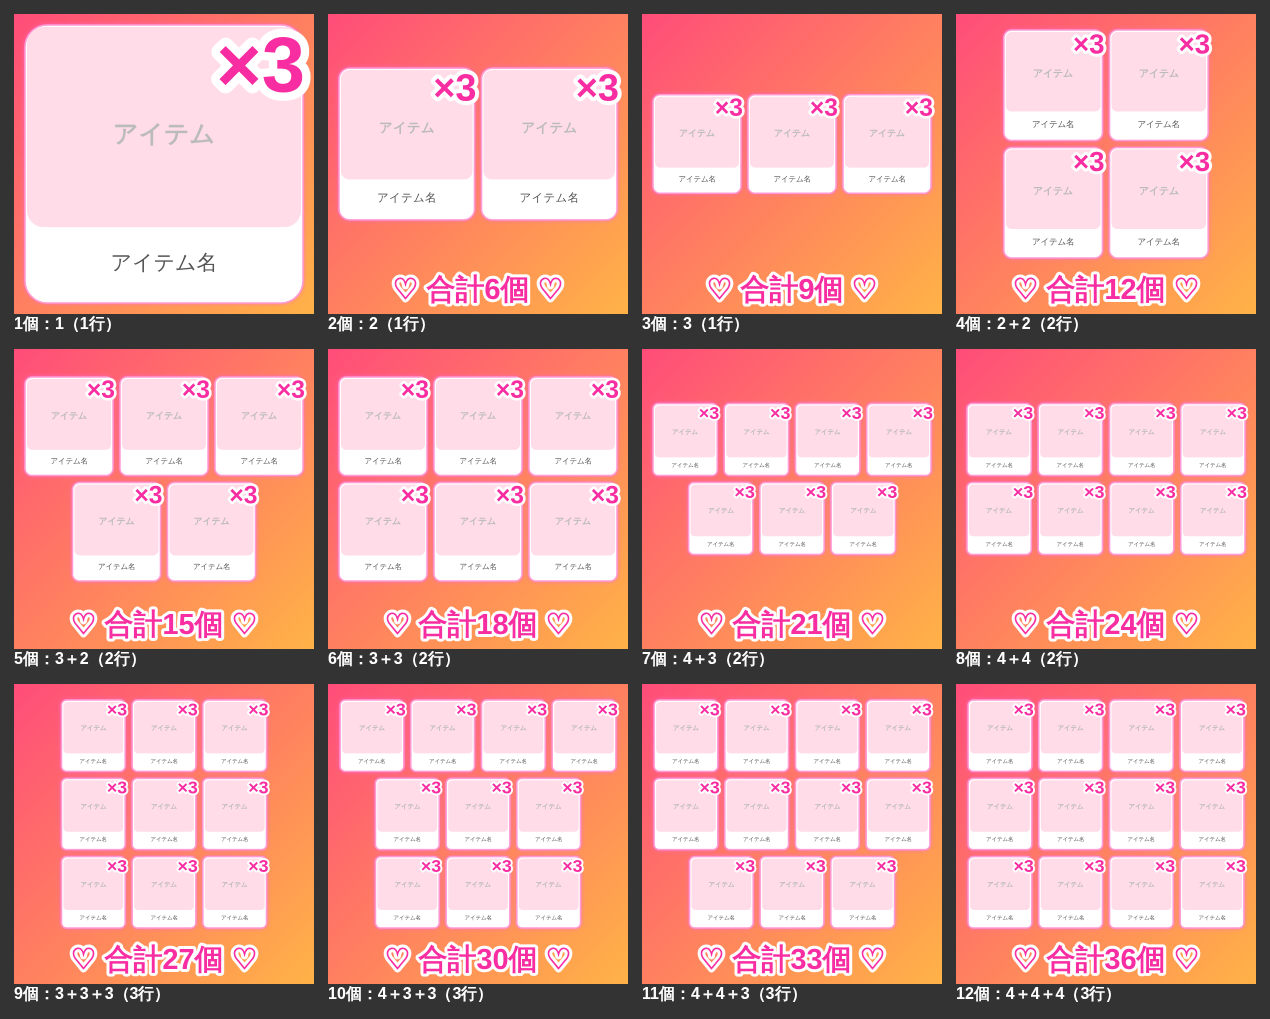
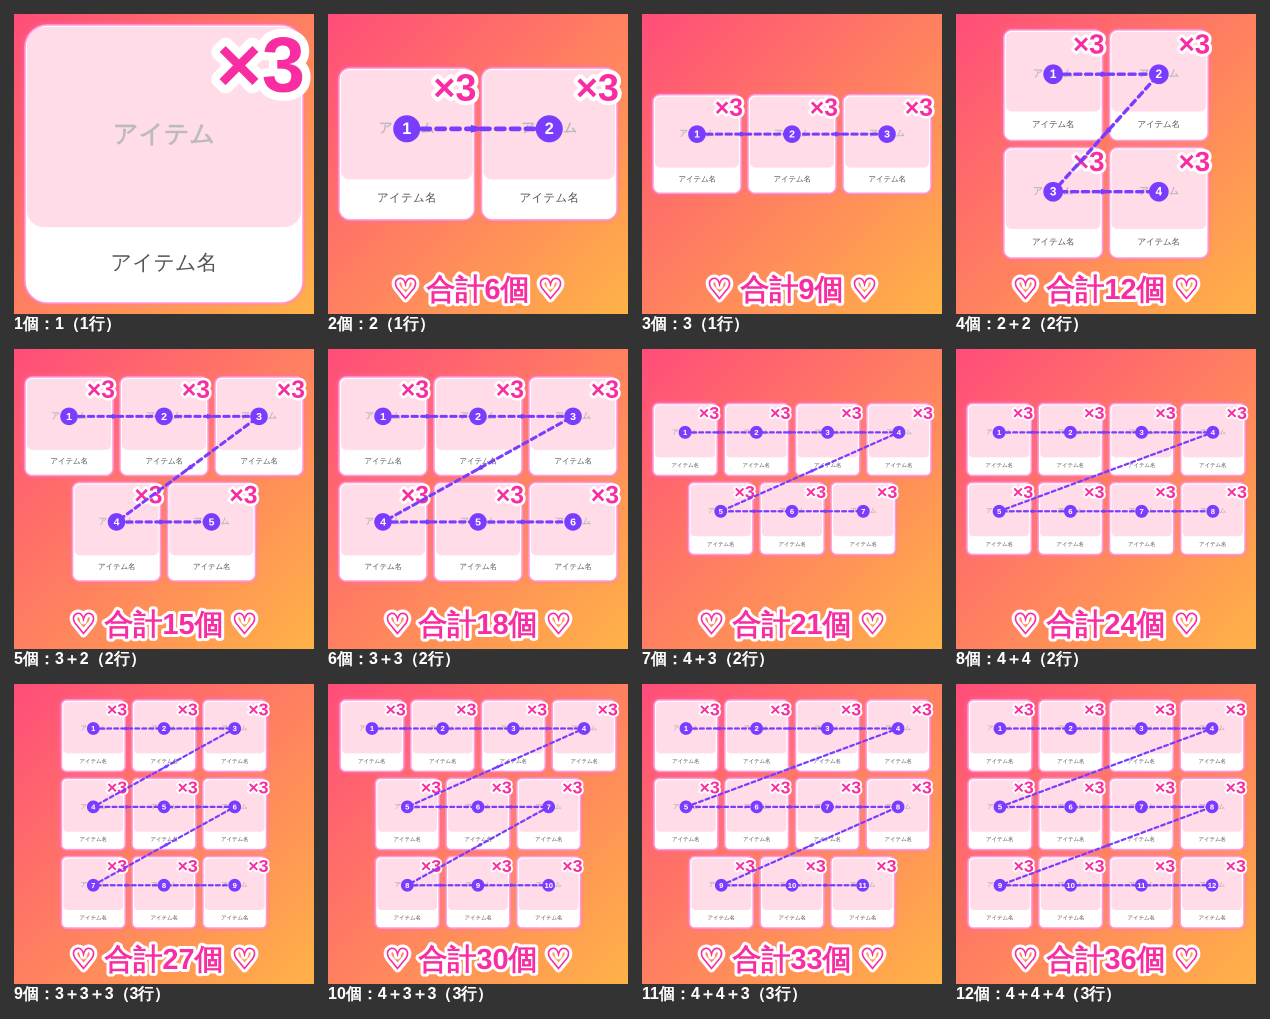
複数アイテム（2〜12個）に対応：写真を複数選択→選んだ順に左上から並べ、各×数と合計○個を表示。レイアウト図に並び順の矢印
Claude-Session: https://claude.ai/code/session_01NKVa1W4QoGNW4YStBspzk8

diff --git a/index.html b/index.html
@@ -131,6 +131,15 @@
     background:#5a3a6aee;color:#fff;font-weight:800;font-size:13px;padding:10px 16px;border-radius:99px;opacity:0;transition:.25s;pointer-events:none;text-align:center}
   #toast.show{opacity:1;transform:translate(-50%,0)}
   .set.shared::before{content:"☁";position:absolute;left:-5px;bottom:-6px;font-size:12px;background:#fff;border-radius:50%;width:18px;height:18px;line-height:18px;text-align:center;box-shadow:0 0 3px #0003}
+
+  /* 複数アイテム */
+  #multi{display:flex;gap:6px;overflow-x:auto;padding:2px 0 4px}
+  body.isMulti .nums{display:none}
+  .chip{flex:none;display:flex;align-items:center;gap:4px;background:#fff;border-radius:99px;padding:3px 6px 3px 3px;box-shadow:0 2px 0 #f6cfe2}
+  .chip .no{width:18px;height:18px;border-radius:50%;background:var(--pink);color:#fff;font-size:11px;font-weight:900;line-height:18px;text-align:center}
+  .chip img{width:30px;height:30px;object-fit:cover;object-position:50% 30%;border-radius:8px}
+  .chip b{min-width:30px;text-align:center;color:#f82da1;font-weight:900}
+  .chip button{width:28px;height:28px;border-radius:50%;border:0;color:#fff;font-weight:900;font-size:16px;background:linear-gradient(180deg,#ff9fcb,var(--pink));box-shadow:0 2px 0 #e0579a}
 </style>
 </head>
 <body>
@@ -142,13 +151,14 @@
 <div id="sets"></div><input type="file" id="bg" accept="image/*" hidden>
 
 <div class="ctrl">
-  <label class="pill lav pick">📷 アイテム画像を選ぶ<input type="file" id="shot" accept="image/*" hidden></label>
+  <label class="pill lav pick">📷 アイテム画像を選ぶ<input type="file" id="shot" accept="image/*" multiple hidden></label>
   <div class="nums">
     <label class="own">所持数<small id="ownState"></small><input type="number" id="owned" min="1" inputmode="numeric" placeholder="−"></label>
     <div class="step"><button type="button" id="minus" aria-label="1減らす">−</button>
       <span>×<b id="countView">3</b></span><button type="button" id="plus" aria-label="1増やす">＋</button></div>
     <input type="hidden" id="count">
   </div>
+  <div id="multi"></div>
 </div>
 </main>
 
@@ -177,9 +187,9 @@
     <div class="row" id="delList"></div>
   </div></section>
 
-  <section class="card"><h2>複数アイテムのレイアウト（準備中）</h2><div class="in">
+  <section class="card"><h2>複数アイテムの並び順</h2><div class="in">
     <img src="img/layouts.png" alt="1〜12個の並べ方の案" style="width:100%;border-radius:14px">
-    <div class="note">2・3個は横並び、4個は2＋2、5個は3＋2、6個は3＋3、7個は4＋3、8個は4＋4、9個は3＋3＋3、10個は4＋3＋3、11個は4＋4＋3、12個は4＋4＋4。下に入れる「合計○個」の数字は大きく使います。</div>
+    <div class="note">写真を選んだ順に、左上から番号の順で並びます。2・3個は横並び、4個は2＋2、5個は3＋2、6個は3＋3、7個は4＋3、8個は4＋4、9個は3＋3＋3、10個は4＋3＋3、11個は4＋4＋3、12個は4＋4＋4。下に入れる「合計○個」の数字は大きく使います。</div>
   </div></section>
 
   <section class="card"><h2>切り抜き位置</h2><div class="in">
@@ -236,35 +246,68 @@ $('showCount').addEventListener('change',draw);
 
 function fromFile(f, cb){ const i=new Image(); i.onload=()=>{cb(i);draw();}; i.src=URL.createObjectURL(f); }
 // ---- アイテム画像：読み込み時に「所持数：○個」を文字認識して所持数に入れる（画像自体は一切変更しない） ----
-function setShot(i){ shotImg=i; $('count').value=''; readOwned(i); }
+// 画像から「所持数」の行を探し、所持数・切り抜き位置を返す（画像そのものは変更しない）
 let ocrWorker=null, ocrSeq=0;
+async function analyzeShot(img){
+  if (!window.Tesseract) return null;
+  // 画面の下側（スクショ幅の60%より下・左右20〜80%）を読み取り用にコピーして「所持数」の行を探す
+  const W=img.width, sx=W*.2, sy=W*.6, sw=W*.6, sh=img.height-sy;
+  if (sh<=0) return null;
+  const c=document.createElement('canvas'), k=Math.max(1,900/sw); c.width=sw*k; c.height=sh*k;
+  c.getContext('2d').drawImage(img,sx,sy,sw,sh,0,0,c.width,c.height);
+  const base=new URL('ocr/',location.href).href;
+  ocrWorker ??= await Tesseract.createWorker('jpn',1,{workerPath:base+'worker.min.js',corePath:base,langPath:base,workerBlobURL:false});
+  const {data}=await ocrWorker.recognize(c,{},{text:true,blocks:true});
+  const lines=(data.blocks||[]).flatMap(b=>b.paragraphs.flatMap(p=>p.lines));
+  const line=lines.find(l=>/持数|所持/.test(l.text.replace(/\s/g,'')));
+  const r={};
+  if (line){
+    r.squareBottom=sy+line.bbox.y1/k+W*.015;        // 1個のとき：所持数の行の少し下まで（正方形）
+    r.cardBottom=sy+line.bbox.y0/k-W*.012;          // 複数のとき：所持数の行の手前（名前の行まで）
+  }
+  const t=(line?line.text:data.text).replace(/\s/g,''), m=t.match(/持数[^0-9]*(\d+)/) || t.match(/(\d+)個/);
+  if (m) r.owned=+m[1];
+  return r;
+}
+function setShot(i){ items=[]; renderItems(); shotImg=i; $('count').value=''; readOwned(i); }
 async function readOwned(img){
   const seq=++ocrSeq; $('ownState').textContent='読取中…';
   try{
-    if (!window.Tesseract) throw 0;
-    // 画面の下側（スクショ幅の60%より下・左右20〜80%）を読み取り用にコピーして「所持数」の行を探す
-    const W=img.width, sx=W*.2, sy=W*.6, sw=W*.6, sh=img.height-sy;
-    if (sh<=0) throw 0;
-    const c=document.createElement('canvas'), k=Math.max(1,900/sw); c.width=sw*k; c.height=sh*k;
-    const g=c.getContext('2d'); g.drawImage(img,sx,sy,sw,sh,0,0,c.width,c.height);
-    const base=new URL('ocr/',location.href).href;
-    ocrWorker ??= await Tesseract.createWorker('jpn',1,{workerPath:base+'worker.min.js',corePath:base,langPath:base,workerBlobURL:false});
-    const {data}=await ocrWorker.recognize(c,{},{text:true,blocks:true});
-    if (seq!==ocrSeq) return;
-    const lines=(data.blocks||[]).flatMap(b=>b.paragraphs.flatMap(p=>p.lines));
-    const line=lines.find(l=>/持数|所持/.test(l.text.replace(/\s/g,'')));
-    if (line){
-      // 切り抜き位置を自動調整：「所持数」の行の少し下を正方形の下端にする（端末ごとの画面の違いに対応）
-      const bottom=sy+line.bbox.y1/k+W*.015;
-      $('ct').value=Math.max(0,+(((bottom-W)/W)*100).toFixed(1));
-    }
-    const t=(line?line.text:data.text).replace(/\s/g,''), m=t.match(/持数[^0-9]*(\d+)/) || t.match(/(\d+)個/);
-    if (m){ $('owned').value=m[1]; $('count').value=''; $('ownState').textContent='自動'; }
+    const r=await analyzeShot(img); if (seq!==ocrSeq) return;
+    if (!r) throw 0;
+    if (r.squareBottom) $('ct').value=Math.max(0,+(((r.squareBottom-img.width)/img.width)*100).toFixed(1));
+    if (r.owned){ $('owned').value=r.owned; $('count').value=''; $('ownState').textContent='自動'; }
     else $('ownState').textContent='読取×';
     draw();
   }catch(e){ if(seq===ocrSeq) $('ownState').textContent='読取×'; }
 }
-$('shot').addEventListener('change',()=>{ const f=$('shot').files[0]; if(f) fromFile(f,setShot); });
+
+// ---- 複数アイテム（2〜12個）：選んだ順に並べる ----
+let items=[];
+const itemCount=it=>it.count!=null ? it.count : Math.max(0,(it.owned||1)-1);
+async function setItems(files){
+  const seq=++ocrSeq; shotImg=null;
+  items=[]; for (const f of files.slice(0,12)){ const img=new Image(); img.src=URL.createObjectURL(f); await img.decode();
+    items.push({img, src:img.src, owned:null, count:null, top:img.width*.5, cardBottom:img.width*1.45, reading:true}); }
+  if (files.length>12) toast('13個以上は選べないので、最初の12個を使います');
+  renderItems(); draw();
+  for (const it of items){ try{ const r=await analyzeShot(it.img); if (seq!==ocrSeq) return;
+      if (r?.owned) it.owned=r.owned;
+      if (r?.cardBottom){ it.cardBottom=r.cardBottom; it.top=Math.max(0,r.squareBottom-it.img.width); }
+    }catch(e){} it.reading=false; renderItems(); draw(); }
+}
+function renderItems(){
+  const box=$('multi'); document.body.classList.toggle('isMulti',items.length>1);
+  if (items.length<2){ box.innerHTML=''; return; }
+  box.innerHTML='';
+  items.forEach((it,n)=>{ const d=document.createElement('div'); d.className='chip';
+    d.innerHTML=`<span class="no">${n+1}</span><img src="${it.src}" alt=""><button type="button" class="m">−</button><b>${it.reading?'…':'×'+itemCount(it)}</b><button type="button" class="p">＋</button>`;
+    d.querySelector('.m').onclick=()=>{ it.count=Math.max(0,itemCount(it)-1); renderItems(); draw(); };
+    d.querySelector('.p').onclick=()=>{ it.count=itemCount(it)+1; renderItems(); draw(); };
+    box.appendChild(d); });
+}
+$('shot').addEventListener('change',()=>{ const fs=[...$('shot').files]; $('shot').value='';
+  if (fs.length>1) setItems(fs); else if (fs[0]) fromFile(fs[0],setShot); });
 
 // 画面下にお知らせを表示
 function toast(t){ let el=$('toast'); if(!el){ el=document.createElement('div'); el.id='toast'; document.body.appendChild(el); }
@@ -418,15 +461,63 @@ function countValue(){
   $('countView').textContent=v; return v;
 }
 
+// ---- 描画の部品 ----
+function fontPx(h){ const base=FONTS[$('font').value]||FONTS[10];
+  const mm=document.createElement('canvas').getContext('2d'); mm.font=base.replace(/\d+px/,'100px');
+  return {base, px:Math.round(100*h/Math.max(1,mm.measureText('3').actualBoundingBoxAscent))}; }
+const setF=(base,px)=>base.replace(/\d+px/, Math.round(px)+'px');
+// ぷっくり文字（濃ピンク＋白フチ＋細い蛍光ライン）。parts: [{t,f,x,y,sx}]、k: 太さの倍率
+function puffy(parts,k,edge){
+  const FAT=6*k, OUT=36*k;
+  const each=(g,fn)=>parts.forEach(q=>{ g.save(); g.font=q.f; g.textAlign='left'; g.textBaseline='alphabetic'; g.lineJoin='round';
+    g.translate(q.x,q.y); g.scale(q.sx||1,1); fn(g,q.t); g.restore(); });
+  ctx.save();
+  each(ctx,(g,t)=>{ g.shadowColor=edge; g.shadowBlur=3*k; g.strokeStyle=edge; g.lineWidth=OUT+10*k; g.strokeText(t,0,0); });
+  each(ctx,(g,t)=>{ g.strokeStyle='#fff'; g.lineWidth=OUT; g.strokeText(t,0,0); });
+  ctx.restore();
+  const c=document.createElement('canvas'); c.width=c.height=S; const g=c.getContext('2d');
+  each(g,(g,t)=>{ g.fillStyle=g.strokeStyle='#f82da1'; g.lineWidth=FAT; g.fillText(t,0,0); g.strokeText(t,0,0); });
+  g.globalCompositeOperation='source-atop';
+  each(g,(g,t)=>{ g.strokeStyle='#d0409a'; g.lineWidth=FAT+10*k; g.filter=`blur(${4*k}px)`; g.strokeText(t,0,0); });
+  each(g,(g,t)=>{ g.fillStyle='#f82da1'; g.filter=`blur(${6*k}px)`; g.fillText(t,0,-2*k); });
+  each(g,(g,t)=>{ g.fillStyle='rgba(255,150,215,.3)'; g.filter=`blur(${14*k}px)`; g.fillText(t,-10*k,-18*k); g.filter='none'; });
+  const mk=document.createElement('canvas'); mk.width=mk.height=S;
+  each(mk.getContext('2d'),(g,t)=>{ g.fillStyle=g.strokeStyle='#000'; g.lineWidth=FAT; g.fillText(t,0,0); g.strokeText(t,0,0); });
+  g.globalCompositeOperation='destination-in'; g.filter='none'; g.drawImage(mk,0,0);
+  ctx.drawImage(c,0,0);
+}
+// 「×数」を右端 right・ベースライン base に、数字の高さ h で描く
+function drawCount(num,right,base,h,edge){
+  const {base:fb,px}=fontPx(h), k=h/205, SX=1.08, fN=setF(fb,px), fX=setF(fb,px*.66);
+  const m=document.createElement('canvas').getContext('2d');
+  m.font=fN; const wN=m.measureText(num).width*SX; m.font=fX; const wX=m.measureText('×').width;
+  puffy([{t:num,f:fN,x:right-wN,y:base,sx:SX},{t:'×',f:fX,x:right-wN-18*k-wX,y:base-26*k}],k,edge);
+}
+// ネオン風のフチ（k: 太さの倍率）
+function neon(x,y,w,h,r,edge,k){
+  const EI=EDGE_IN*k, EC=EDGE_CORE*k, o1=EI/2, o2=EI+EC/2, OUTER=EI+EC;
+  const c=document.createElement('canvas'); c.width=c.height=S; const g=c.getContext('2d');
+  g.strokeStyle=edge; g.shadowColor=edge; g.lineWidth=EC; g.shadowBlur=24*k;
+  for (let n=0;n<3;n++){ g.beginPath(); g.roundRect(x-o2,y-o2,w+o2*2,h+o2*2,r+o2); g.stroke(); }
+  g.shadowBlur=0; g.globalCompositeOperation='destination-out';
+  g.beginPath(); g.roundRect(x-OUTER,y-OUTER,w+OUTER*2,h+OUTER*2,r+OUTER); g.fill();
+  ctx.drawImage(c,0,0);
+  ctx.save(); ctx.filter=`blur(${k}px)`;
+  ctx.lineWidth=EI+k; ctx.strokeStyle=edge; rr(x-o1,y-o1,w+o1*2,h+o1*2,r+o1); ctx.stroke();
+  ctx.lineWidth=EC; ctx.strokeStyle='#fffaff'; ctx.shadowColor='#fff'; ctx.shadowBlur=6*k;
+  rr(x-o2,y-o2,w+o2*2,h+o2*2,r+o2); ctx.stroke(); ctx.restore();
+}
+const ROWS={2:[2],3:[3],4:[2,2],5:[3,2],6:[3,3],7:[4,3],8:[4,4],9:[3,3,3],10:[4,3,3],11:[4,4,3],12:[4,4,4]};
+
 function draw(){
   ctx.clearRect(0,0,S,S);
   if (bgImg){ const k=Math.max(S/bgImg.width,S/bgImg.height), w=bgImg.width*k, h=bgImg.height*k;
     ctx.drawImage(bgImg,(S-w)/2,(S-h)/2,w,h); }
   else { ctx.fillStyle='#ff7aa8'; ctx.fillRect(0,0,S,S); }
-
   const edge = $('edgeColor').value;
-  const {x,y,size} = BOX;
+  if (items.length>1) return drawMulti(edge);
 
+  const {x,y,size} = BOX;
   // アイテム画像（正方形切り抜き・縦横同倍率・ピクセルはそのまま）
   ctx.save(); rr(x,y,size,size,R); ctx.clip();
   ctx.fillStyle='#fff'; ctx.fillRect(x,y,size,size);
@@ -436,57 +527,40 @@ function draw(){
     ctx.drawImage(shotImg,(W-side)/2,top,side,side,x,y,size,size);
   }
   ctx.restore();
-
-  // 蛍光フチ（ネオン管風：外側の光 → 白い芯 → 内側の色線。太さ・丸みは常に同じ。光は画像の上にはかけない）
-  const o1 = EDGE_IN/2, o2 = EDGE_IN + EDGE_CORE/2, OUTER = EDGE_IN + EDGE_CORE;
-  { // 外側の光（別キャンバスで描いて、画像の上にかかる部分は消す）
-    const c=document.createElement('canvas'); c.width=c.height=S; const g=c.getContext('2d');
-    g.strokeStyle=edge; g.shadowColor=edge; g.lineWidth=EDGE_CORE; g.shadowBlur=24;
-    for (let n=0;n<3;n++){ g.beginPath(); g.roundRect(x-o2,y-o2,size+o2*2,size+o2*2,R+o2); g.stroke(); }
-    g.shadowBlur=0; g.globalCompositeOperation='destination-out';
-    g.beginPath(); g.roundRect(x-OUTER,y-OUTER,size+OUTER*2,size+OUTER*2,R+OUTER); g.fill();
-    ctx.drawImage(c,0,0);
-  }
-  ctx.save();
-  ctx.filter='blur(1px)';
-  ctx.lineWidth=EDGE_IN+1; ctx.strokeStyle=edge; rr(x-o1,y-o1,size+o1*2,size+o1*2,R+o1); ctx.stroke();
-  ctx.lineWidth=EDGE_CORE; ctx.strokeStyle='#fffaff'; ctx.shadowColor='#fff'; ctx.shadowBlur=6;
-  rr(x-o2,y-o2,size+o2*2,size+o2*2,R+o2); ctx.stroke();
-  ctx.restore();
-
-  // ×数字（ぷっくり濃ピンク＋太い白フチ＋外側のマゼンタの光）。×は数字より小さめ
+  neon(x,y,size,size,R,edge,1);
   const cnt=countValue();
-  if ($('showCount').checked && cnt!==null){
-    const num=String(cnt);
-    const base=FONTS[$('font').value]||FONTS[10];
-    // 書体ごとの大きさの違いをならす：数字の高さが見本と同じ(約205px)になるよう自動調整
-    const mm=document.createElement('canvas').getContext('2d'); mm.font=base.replace(/\d+px/,'100px');
-    const px=Math.round(100*205/Math.max(1,mm.measureText('3').actualBoundingBoxAscent));
-    const fNum=base.replace(/\d+px/, px+'px'), fX=base.replace(/\d+px/, Math.round(px*0.66)+'px');
-    const RIGHT=1194, BASE=262, GAP=18, FAT=6, OUT=30+6, XUP=26, GLOW=edge, SX=1.08;
-    const m=document.createElement('canvas').getContext('2d');
-    m.font=fNum; const wN=m.measureText(num).width*SX;
-    m.font=fX;  const wX=m.measureText('×').width;
-    const parts=[{t:num,f:fNum,x:RIGHT-wN,sx:SX},{t:'×',f:fX,x:RIGHT-wN-GAP-wX,sx:1,dy:-XUP}];
-    const each=(g,fn)=>parts.forEach(q=>{ g.save(); g.font=q.f; g.textAlign='left'; g.textBaseline='alphabetic'; g.lineJoin='round';
-      g.translate(q.x,BASE+(q.dy||0)); g.scale(q.sx,1); fn(g,q.t); g.restore(); });
-    // 光と白フチ：外側に細い蛍光ライン（フチと同じ色）＋控えめな光、内側に白フチ
-    ctx.save();
-    for (let n=0;n<1;n++) each(ctx,(g,t)=>{ g.shadowColor=GLOW; g.shadowBlur=3; g.strokeStyle=GLOW; g.lineWidth=OUT+10; g.strokeText(t,0,0); });
-    each(ctx,(g,t)=>{ g.strokeStyle='#fff'; g.lineWidth=OUT; g.strokeText(t,0,0); });
-    ctx.restore();
-    // 文字本体（ぷっくり感）
-    const c=document.createElement('canvas'); c.width=c.height=S; const g=c.getContext('2d');
-    each(g,(g,t)=>{ g.fillStyle=g.strokeStyle='#f82da1'; g.lineWidth=FAT; g.fillText(t,0,0); g.strokeText(t,0,0); }); // 太らせる
-    g.globalCompositeOperation='source-atop';
-    each(g,(g,t)=>{ g.strokeStyle='#d0409a'; g.lineWidth=FAT+10; g.filter='blur(4px)'; g.strokeText(t,0,0); });       // ふち側を少し濃く
-    each(g,(g,t)=>{ g.fillStyle='#f82da1'; g.filter='blur(6px)'; g.fillText(t,0,-2); });                           // 中はベタ
-    each(g,(g,t)=>{ g.fillStyle='rgba(255,150,215,.3)'; g.filter='blur(14px)'; g.fillText(t,-10,-18); g.filter='none'; }); // 左上のハイライト
-    const mk=document.createElement('canvas'); mk.width=mk.height=S;
-    each(mk.getContext('2d'),(g,t)=>{ g.fillStyle=g.strokeStyle='#000'; g.lineWidth=FAT; g.fillText(t,0,0); g.strokeText(t,0,0); });
-    g.globalCompositeOperation='destination-in'; g.filter='none'; g.drawImage(mk,0,0);
-    ctx.drawImage(c,0,0);
-  }
+  if ($('showCount').checked && cnt!==null) drawCount(String(cnt),1194,262,205,edge);
+}
+
+// 複数アイテム：選んだ順に左上から並べ、下に「合計○個」
+function drawMulti(edge){
+  const n=Math.min(items.length,12), rows=ROWS[n], cols=Math.max(...rows);
+  const PAD=56, TOP=70, FOOT=215, GAP=n>6?34:44;
+  // カードの縦横比（アイテム上端〜名前の行まで）
+  const ratios=items.map(it=>(it.cardBottom-it.top)/it.img.width).filter(r=>r>0.5&&r<1.6);
+  const ar=ratios.length? ratios.sort((a,b)=>a-b)[ratios.length>>1] : 1;
+  const availW=S-PAD*2, availH=S-TOP-FOOT;
+  const cw=Math.min((availW-GAP*(cols-1))/cols, (availH-GAP*(rows.length-1))/rows.length/ar), ch=cw*ar;
+  const k=cw/1000, r=Math.max(14,R*k*1.6);
+  let y=TOP+(availH-(rows.length*ch+(rows.length-1)*GAP))/2, idx=0;
+  const cards=[];
+  rows.forEach(c=>{ let x=(S-(c*cw+(c-1)*GAP))/2; for(let i=0;i<c;i++){ cards.push({x,y,it:items[idx++]}); x+=cw+GAP; } y+=ch+GAP; });
+  cards.forEach(({x,y,it})=>{
+    ctx.save(); rr(x,y,cw,ch,r); ctx.clip(); ctx.fillStyle='#fff'; ctx.fillRect(x,y,cw,ch);
+    const W=it.img.width; ctx.imageSmoothingQuality='high';
+    ctx.drawImage(it.img,0,it.top,W,W*ar,x,y,cw,ch); ctx.restore();
+    neon(x,y,cw,ch,r,edge,Math.max(.5,k*1.4));
+  });
+  if (!$('showCount').checked) return;
+  const ht=Math.max(60,cw*.24); // 各カードの×数字の高さ
+  cards.forEach(({x,y,it})=>drawCount(String(itemCount(it)),x+cw+ht*.18,y+ht*.62,ht,edge));
+  // 合計○個（数字を大きく）
+  const total=items.slice(0,n).reduce((a,it)=>a+itemCount(it),0);
+  const {base:fb,px}=fontPx(150), fBig=setF(fb,px), fSm=setF(fb,px*.52);
+  const m=document.createElement('canvas').getContext('2d');
+  m.font=fSm; const w1=m.measureText('合計').width, w3=m.measureText('個').width; m.font=fBig; const w2=m.measureText(String(total)).width;
+  const gap=18, tw=w1+w2+w3+gap*2, bx=(S-tw)/2, by=S-62;
+  puffy([{t:'合計',f:fSm,x:bx,y:by},{t:String(total),f:fBig,x:bx+w1+gap,y:by+6},{t:'個',f:fSm,x:bx+w1+w2+gap*2,y:by}],150/205,edge);
 }
 dbGet('slots').then(v=>{
   if (Array.isArray(v)) sets=v;
